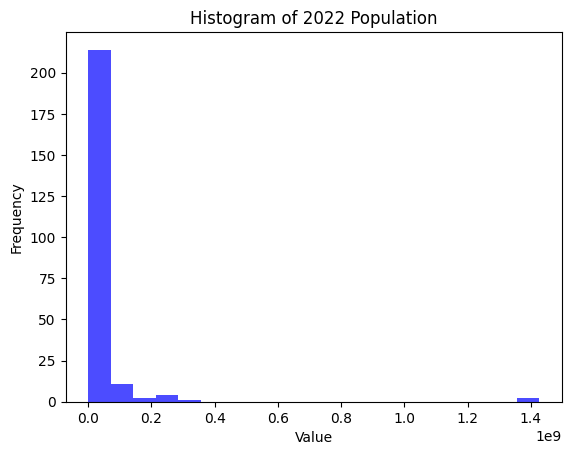
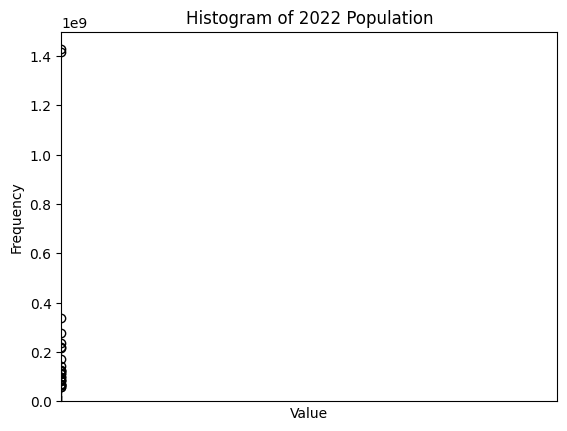
report

Changed region(s): [[0.0, 0.0, 0.9894, 0.9954]]

diff --git a/scripts/script.py b/scripts/script.py
@@ -23,7 +23,7 @@ summary_report = "report.md"
 histogram_image = "image/population_histogram.png"
 boxplot_image = "image/population_boxplot.png"
 
-WP_data = readfile(input_file_path)
+WP_data = lib.readfile(input_file_path)
 
 # country's population in 2022, growth rate and area.
 data = WP_data[["2022 Population", "Growth Rate", "Area (km²)"]]

diff --git a/report.md b/report.md
@@ -1,14 +1,14 @@
-|    | describe   |     Rank | CCA3   | Country/Territory   | Capital   | Continent     |   2022 Population |   2020 Population |   2015 Population |   2010 Population |   2000 Population |   1990 Population |   1980 Population |   1970 Population |       Area (km²) |   Density (per km²) |   Growth Rate |   World Population Percentage |
-|---:|:-----------|---------:|:-------|:--------------------|:----------|:--------------|------------------:|------------------:|------------------:|------------------:|------------------:|------------------:|------------------:|------------------:|-----------------:|--------------------:|--------------:|------------------------------:|
-|  0 | count      | 234      | 234    | 234                 | 234       | 234           |     234           |     234           |     234           |     234           |     234           |     234           |     234           |     234           |    234           |            234      |    234        |                    234        |
-|  1 | null_count |   0      | 0      | 0                   | 0         | 0             |       0           |       0           |       0           |       0           |       0           |       0           |       0           |       0           |      0           |              0      |      0        |                      0        |
-|  2 | mean       | 117.5    |        |                     |           |               |       3.40744e+07 |       3.35011e+07 |       3.173e+07   |       2.98452e+07 |       2.62695e+07 |       2.27102e+07 |       1.89846e+07 |       1.57869e+07 | 581449           |            452.127  |      1.00958  |                      0.427051 |
-|  3 | std        |  67.6942 |        |                     |           |               |       1.36766e+08 |       1.3559e+08  |       1.30405e+08 |       1.24218e+08 |       1.11698e+08 |       9.78322e+07 |       8.17852e+07 |       6.77951e+07 |      1.76184e+06 |           2066.12   |      0.013385 |                      1.71498  |
-|  4 | min        |   1      | ABW    | Afghanistan         | Abu Dhabi | Africa        |     510           |     520           |     564           |     596           |     651           |     700           |     733           |     752           |      1           |              0.0261 |      0.912    |                      0        |
-|  5 | 25%        |  59      |        |                     |           |               |  409984           |  406471           |  399089           |  392181           |  325014           |  261928           |  228263           |  150385           |   2586           |             38.112  |      1.0017   |                      0.01     |
-|  6 | 50%        | 118      |        |                     |           |               |       5.57914e+06 |       5.52947e+06 |       5.42444e+06 |       4.9958e+06  |       4.32064e+06 |       3.86497e+06 |       3.14717e+06 |       2.67528e+06 |  83534           |             96.7026 |      1.0079   |                      0.07     |
-|  7 | 75%        | 176      |        |                     |           |               |       2.25936e+07 |       2.15226e+07 |       1.99061e+07 |       1.9878e+07  |       1.58991e+07 |       1.18828e+07 |       9.82899e+06 |       8.8619e+06  | 438317           |            239.582  |      1.0171   |                      0.28     |
-|  8 | max        | 234      | ZWE    | Zimbabwe            | Zagreb    | South America |       1.42589e+09 |       1.42493e+09 |       1.39372e+09 |       1.34819e+09 |       1.2641e+09  |       1.1537e+09  |       9.82372e+08 |       8.22534e+08 |      1.70982e+07 |          23172.3    |      1.0691   |                     17.88     |
+|    | describe   |   2022 Population |   Growth Rate |       Area (km²) |
+|---:|:-----------|------------------:|--------------:|-----------------:|
+|  0 | count      |     234           |    234        |    234           |
+|  1 | null_count |       0           |      0        |      0           |
+|  2 | mean       |       3.40744e+07 |      1.00958  | 581449           |
+|  3 | std        |       1.36766e+08 |      0.013385 |      1.76184e+06 |
+|  4 | min        |     510           |      0.912    |      1           |
+|  5 | 25%        |  409984           |      1.0017   |   2586           |
+|  6 | 50%        |       5.57914e+06 |      1.0079   |  83534           |
+|  7 | 75%        |       2.25936e+07 |      1.0171   | 438317           |
+|  8 | max        |       1.42589e+09 |      1.0691   |      1.70982e+07 |
 ![Histogram](image/population_histogram.png)
 
 ![Boxplot](image/population_boxplot.png)
